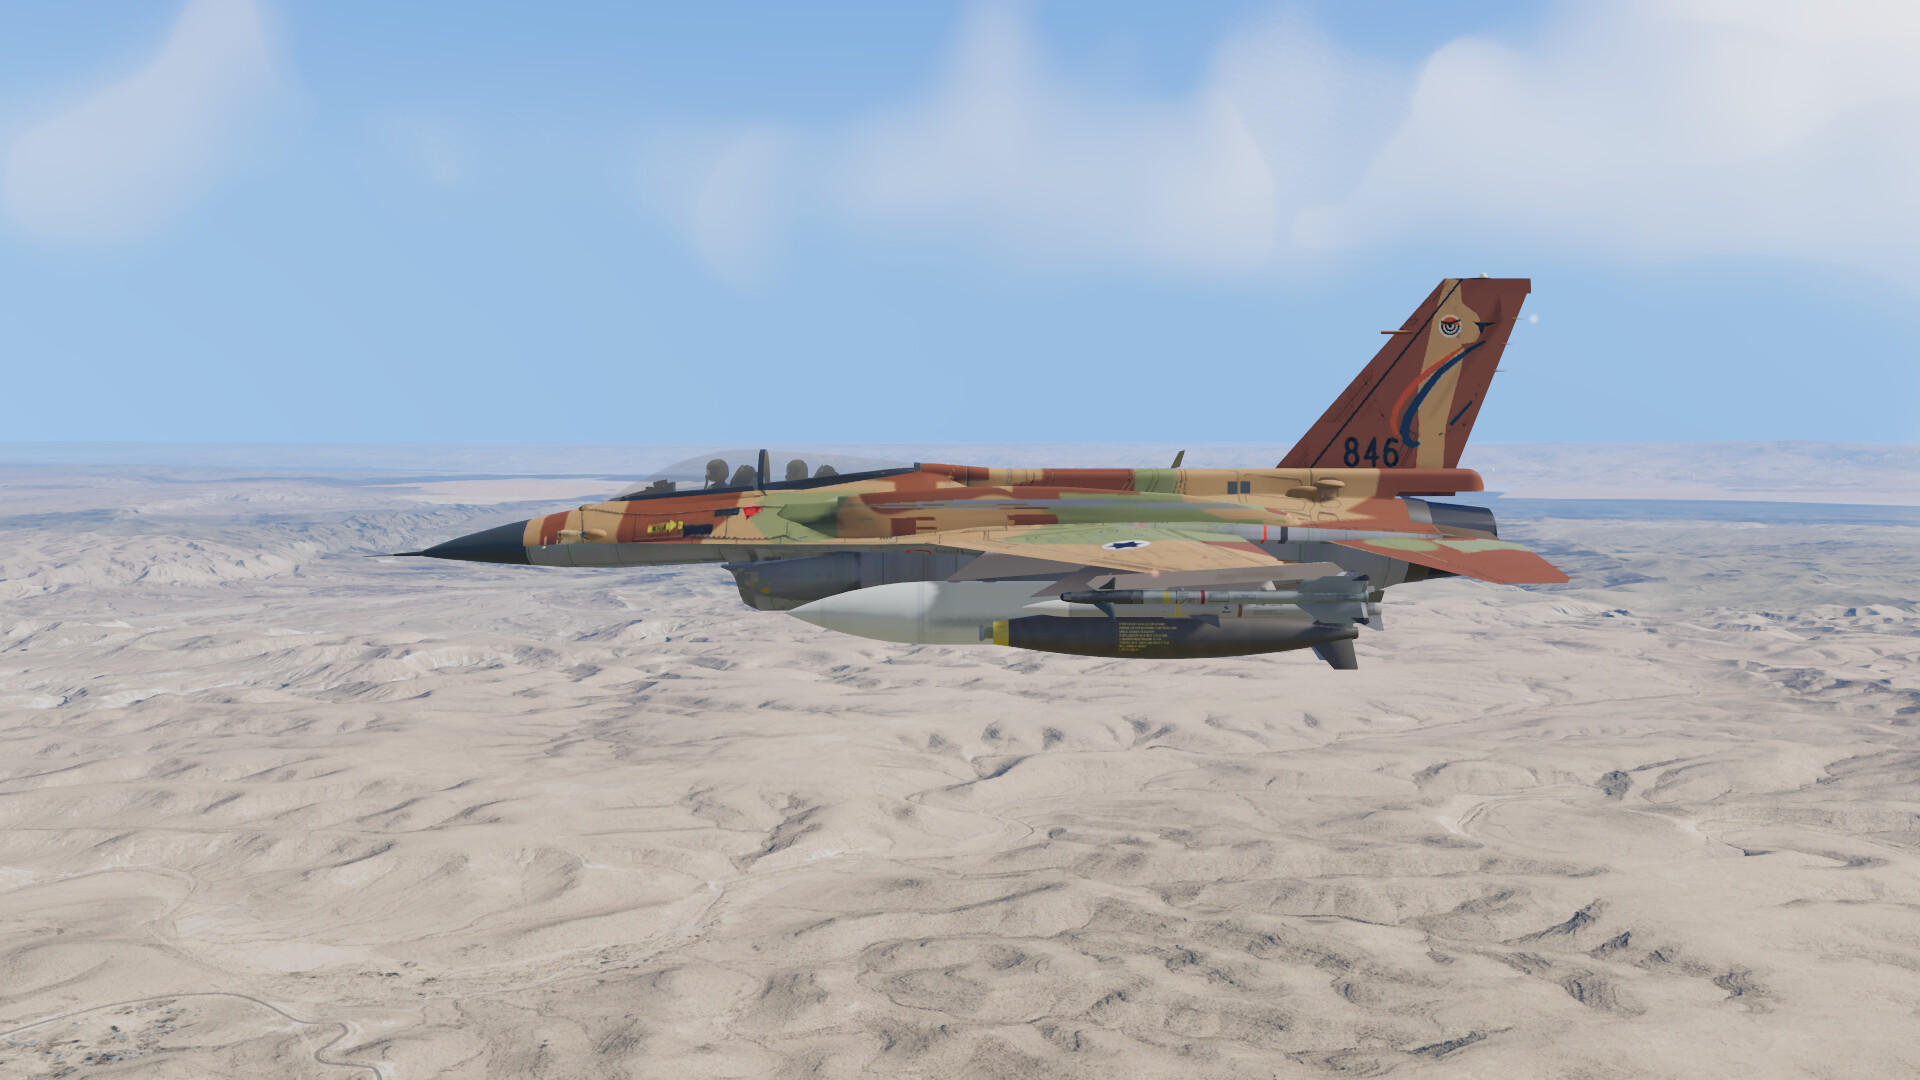
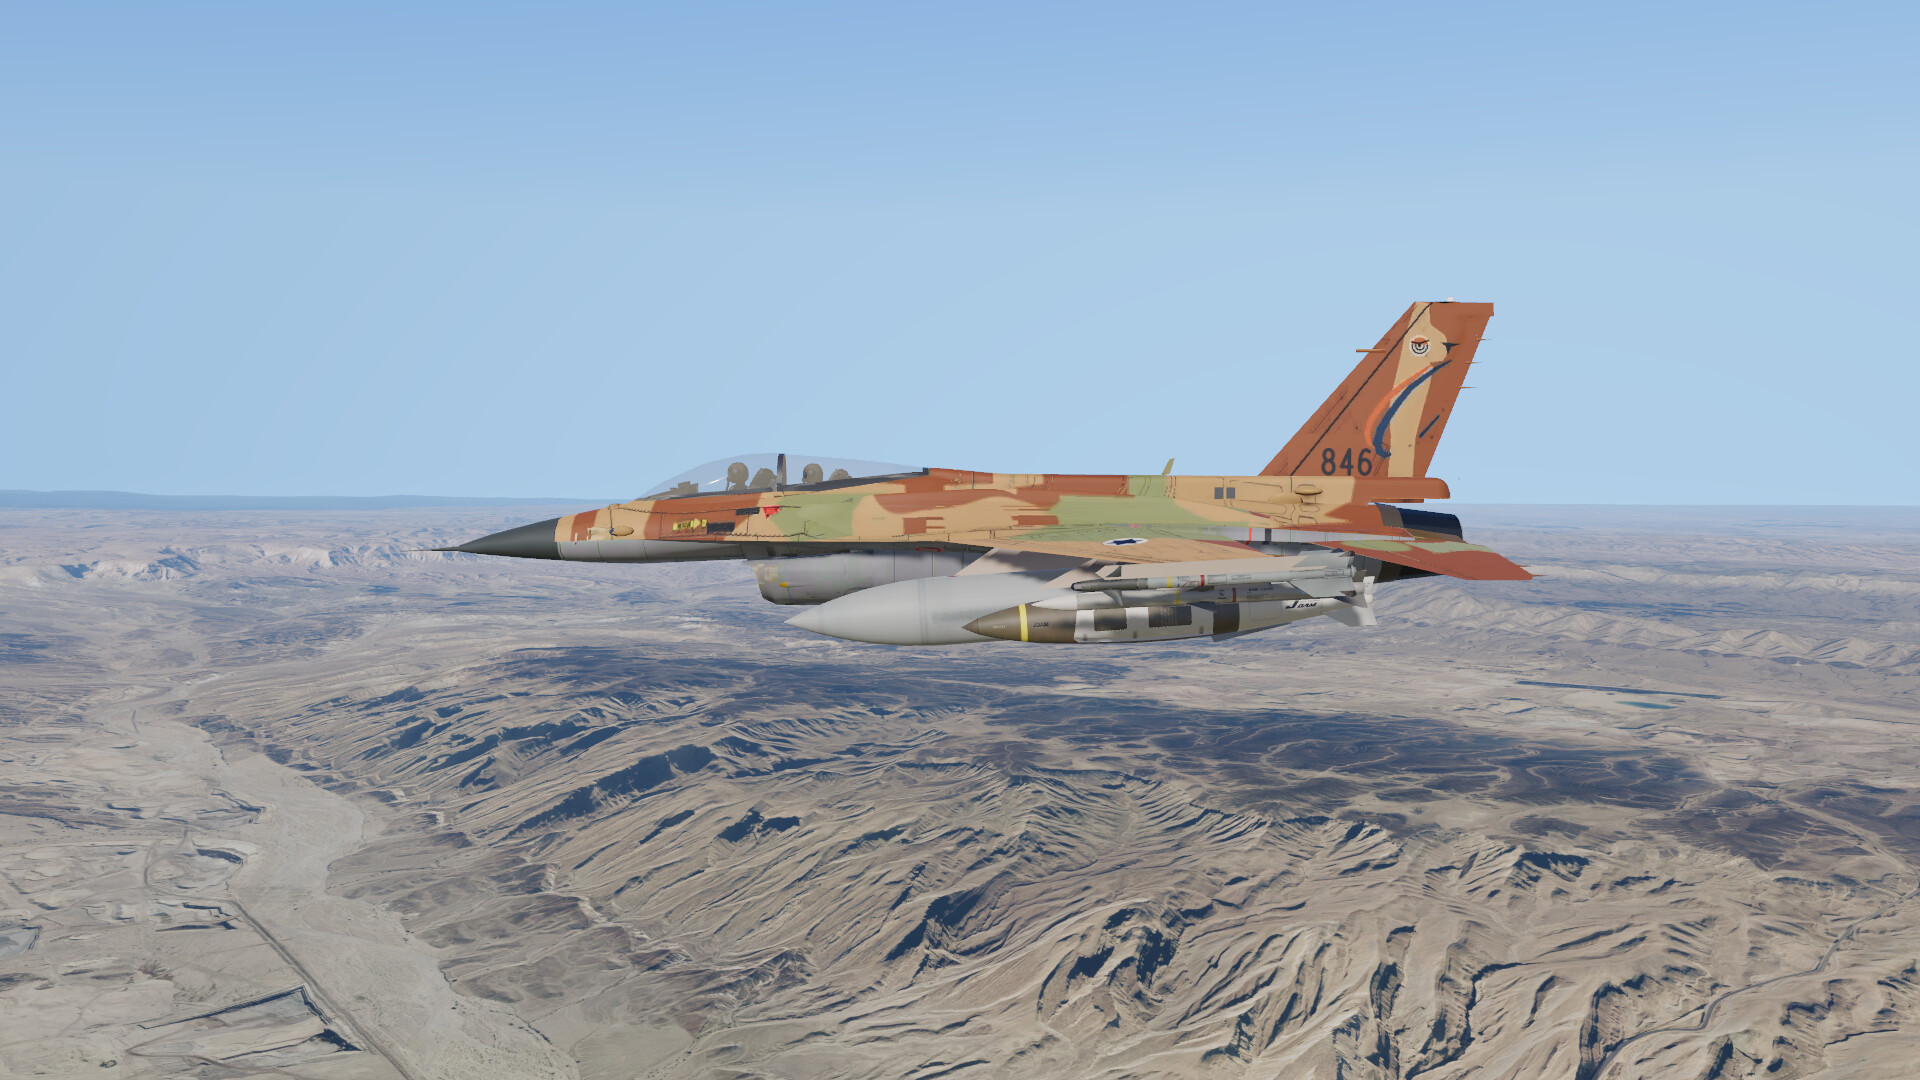
Showcase page: the hero Sufa carries GBU-31 JDAMs
The user, 25 Nov 2026: "in the hero pic, change to JDAM insteal of mk84". Re-shot on main after b7731e798
(the stripe gone, stores on their pylons): the Sufa from its left side over the Negev highlands, the same
framing, armed with GBU-31 JDAM, AIM-120, AIM-9M and the 600 US gal tanks; the near side in the morning sun.
Captions en + he name the JDAM (Hebrew keeps the Latin "JDAM", as the game's store names do).

Claude-Session: https://claude.ai/code/session_01HfoaXprFkEdj69GCkKmySt

diff --git a/site/src/content.py b/site/src/content.py
@@ -17,8 +17,8 @@ HERO = {
     ],
     "asof_en": "Real renders from the sim, November 2026.",
     "asof_he": "צילומי מסך אמיתיים מהסימולטור, נובמבר 2026.",
-    "fig": ("sufa_armed", "The F-16I Sufa armed with Mk 84 bombs and AIM-120 and AIM-9 missiles, over the Negev.",
-            "סופה חמושה בפצצות MK-84, בטילי אמראם (AIM-120) ובטילי סיידוויינדר (AIM-9), מעל הנגב.", "wide"),
+    "fig": ("sufa_armed", "The F-16I Sufa armed with GBU-31 JDAM bombs and AIM-120 and AIM-9 missiles, over the Negev.",
+            "סופה חמושה בפצצות JDAM (GBU-31), בטילי אמראם (AIM-120) ובטילי סיידוויינדר (AIM-9), מעל הנגב.", "wide"),
 }
 
 SECTIONS = [
